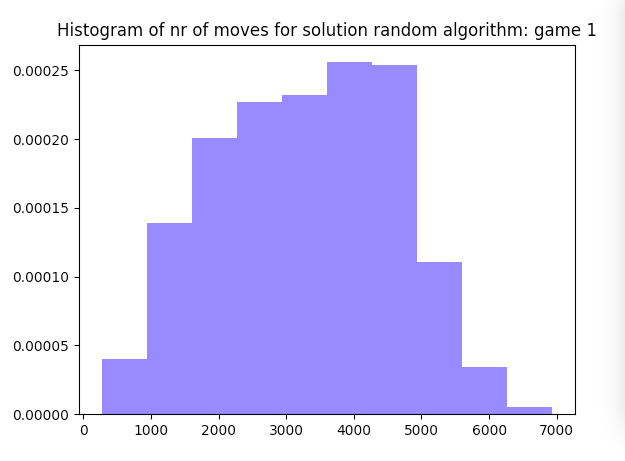
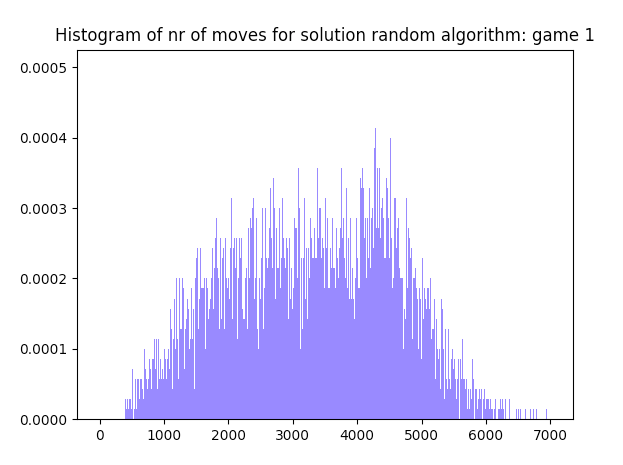
Histograms

Changed region(s): [[0.0, 0.0304, 0.9759, 0.9718]]

diff --git a/src/histogram.py b/src/histogram.py
@@ -22,7 +22,8 @@ y = []
 for [state] in x:
 	y.append(state)
 
-num_bins = 10
-n, bins, patches = plt.hist(y, num_bins, normed=1, facecolor='blue', alpha=0.5)
+
+num_bins = 1000
+n, bins, patches = plt.hist(y, num_bins, normed=1, facecolor='blue', alpha=0.5, range = (0,7000))
 plt.title(r'Histogram of nr of moves for solution random algorithm: game %i' %gameNumber)
 plt.show()
